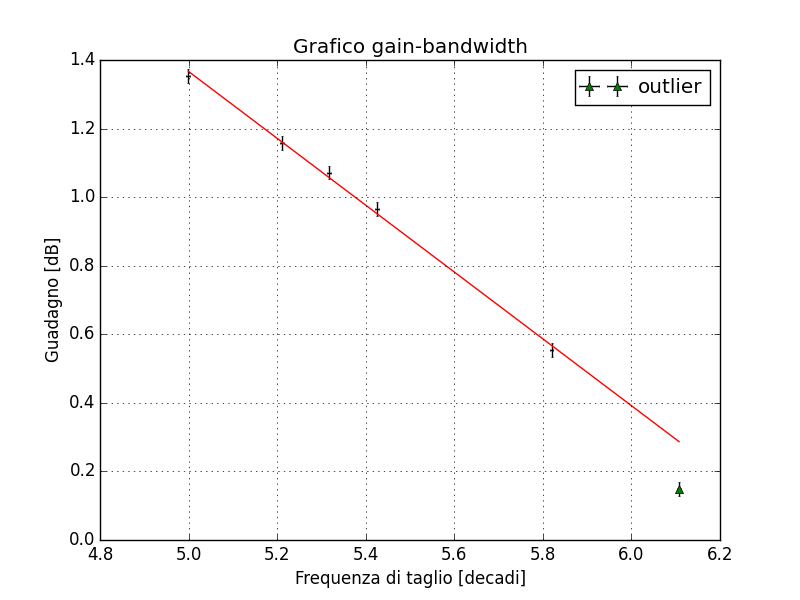
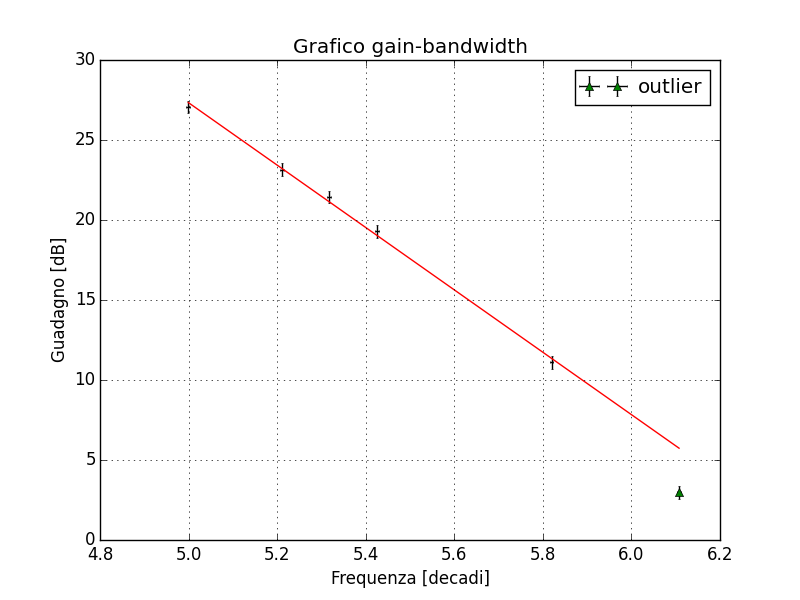
dfgh

diff --git a/Esercitazione7/relazione/Relazione7.tex b/Esercitazione7/relazione/Relazione7.tex
@@ -47,21 +47,122 @@
 \section{Discriminatore}
 Si è montato il circuito in \figurename{~\ref{circuito_discriminatore}} e se ne è studiata la risposta a segnali sinusoidali di frequenza e intensità variabili. In \figurename{~\ref{fig:discriminator}} è mostrato il comportamento ad una frequenza di $\sim \unit{1}{k\hertz}$ ed una tensione di ingresso di $\sim\unit{4}{\volt}$, è visibile l'onda sinusoidale in ingresso e l'onda quadra generata in uscita dall' op-amp. Poiché l'op-amp è usato in modalità invertente il comportamento è paragonabile ad un circuito logico NOT.
 
+\begin{figure}[H]
+	\begin{minipage}{0.49\textwidth}
+		\centering
+		\includegraphics[width=0.7\textwidth]{../circuiti/discriminatore.jpg}
+		\caption{Schema del circuito discriminatore}
+		\label{circuito_discriminatore}
+	\end{minipage}
+	\begin{minipage}{0.49\textwidth}
+		\centering
+		\includegraphics[width=0.9\textwidth]{../oscilloscopio/discriminator.jpg}
+		\caption{Risposta del circuito discriminatore}
+		\label{fig:discriminator}
+	\end{minipage}
+\end{figure}
+
 \subsection{Misura della tensione di offset}
-Si è proceduto a studiare in maggior dettaglio il punto di zero-crossing e a misurare la tensione di offset $V_{OS}$, ovvero la tensione del segnale sinusoidale $V_{IN}$ nell'istante in cui il segnale in output attraversa lo zero ($V_{OUT}=0$). In figura \figurename{~\ref{fig:vos}} è visibile il punto di zero crossing. La misura ha restituito il valore di $V_{OS} = \unit{150 \pm 5}{\milli\volt}$
+Si è proceduto a studiare in maggior dettaglio il punto di zero-crossing e a misurare la tensione di offset $V_{OS}$, ovvero la tensione del segnale sinusoidale $V_{IN}$ nell'istante in cui il segnale in output attraversa lo zero ($V_{OUT}=0$). In \figurename{~\ref{fig:vos}} è visibile il punto di zero crossing e il risultato della misura: $V_{OS} = \unit{150 \pm 5}{\milli\volt}$.
 
-\subsection{Conservazione GBW}
-Per elevate frequenze è atteso, per la conservazione del prodotto guadagno-banda che i guadagno dell'op-amp diminuisca. Per piccoli segnali in ingresso e alte frequenze è atteso che il segnale in output non arrivi a saturazione e sia visibile quindi come un onda sinusoidale.
-In \figurename{~\ref{fig:GMW}} è visibile la risposta del circuito ad un segnale di $\sim\unit{100}{k\hertz}$ e un'intensità $V_{IN}= \unit{156 \pm 5}{\milli\volt}$ e come atteso il segnale è sinusoidale.
-Si è misurata la risposta a varie frequenze a parità di tensione di input, i dati raccolti sono riportati in appendice in \tablename{~\ref{tab:GBW}}. Si è fittata la conservazione della prodotto banda guadagno, i grafici e i risultati del fit sono riportati di seguito:
+\begin{figure}[H]
+	\centering
+	\includegraphics[width=0.45\textwidth]{../oscilloscopio/Vos.jpg}
+	\caption{Zoom sul punto di zero-crossing e misura di $V_{OS}$}
+	\label{fig:vos}
+\end{figure}
 
+\subsection{Conservazione prodotto GBW}
+Per elevate frequenze è atteso, per la conservazione del prodotto guadagno-banda che il guadagno dell'op-amp diminuisca. Per piccoli segnali in ingresso e alte frequenze è possibile quindi che il segnale in output non arrivi a saturazione e sia visibile come un onda sinusoidale.
+
+In \figurename{~\ref{fig:GBW}} è visibile la risposta del circuito ad un segnale di $\sim\unit{100}{k\hertz}$ e un'intensità $V_{IN}= \unit{156 \pm 5}{\milli\volt}$ e come atteso il segnale è sinusoidale.
+
+Si è misurata la risposta a varie frequenze a parità di tensione di input (sempre rimanendo in remime lineare), i dati raccolti sono riportati in appendice in \tablename{~\ref{tab:GBW}}. Si è fittata la conservazione del prodotto banda guadagno $Af_h$, i grafici e i risultati del fit sono riportati di seguito (a e b sono rispettivamente coefficiente angolare e intercetta):
+
+\begin{figure}[H]
+	\begin{minipage}{0.28\textwidth}
+		\centering
+		\begin{tabular}{l}
+			$a = \unit{-19.5 \pm 0.7}{\deci\bel / decade}$ \\
+			$b = \unit{125 \pm 4}{\deci \bel}$ \\
+			$\chi^2 / ndof = 1.9/3$\\
+			$corr(a,b) = -0.9987$\\
+			$Af_h = \unit{2.57+/-0.16}{\mega\hertz}$
+		\end{tabular}
+	\end{minipage}
+	\begin{minipage}{0.75\textwidth}
+		\centering
+		\includegraphics[width=0.95\textwidth]{../grafici/fit_gain_bandwidth.pdf}
+		\caption{Dati e fit della conservazione del GBW}
+		\label{}
+	\end{minipage}
+\end{figure}
+
+\begin{figure}[H]
+	\begin{minipage}{0.49\textwidth}
+	\centering
+	\includegraphics[width=0.85\textwidth]{../oscilloscopio/discriminatore_GBW.jpg}
+	\caption{Regime di linearità (alte frequenze e piccolo segnale)}
+	\label{fig:GBW}
+	\end{minipage}
+	\begin{minipage}{0.49\textwidth}
+	\centering
+	\includegraphics[width=0.85\textwidth]{../oscilloscopio/discriminator_slewrate.jpg}
+	\caption{Deformazione dell'onda quadra dovuta allo slew-rate (medie frequenze, grande segnale)}
+	\label{fig:slewrate_razzista}
+	\end{minipage}
+\end{figure}
 
 \subsection{Slew rate}
-Per frequenze medio/alte e grandi segnali lo slew-rate produce una notevole distorsione dell'onda quadra limitanto la velocità di salita/discesa del segnale. Glie effetti dello slew-rate sulla risposta del circuito sono chiari in \figurename{~\ref{fig:slewrate_razzista}}
-
+Per frequenze medio/alte e grandi segnali lo slew-rate produce una notevole distorsione dell'onda quadra limitanto la velocità di salita/discesa del segnale. Gli effetti dello slew-rate sulla risposta del circuito sono chiari in \figurename{~\ref{fig:slewrate_razzista}}. Si è misurata la velocità di discesa del segnale, il valore trovato è stato $\unit{13.4 \pm 0.4}{\volt /\micro\second}$, compatibile con il valore di $\unit{13}{\volt / \micro\second}$ riportato nel datasheet.
 
 \section{Amplificatore di carica}
 
+Si è montato il circuito in \figurename{~\ref{circuio_ampli}} con i seguenti valori dei componenti:
+
+\begin{figure}[H]
+	\begin{minipage}{0.3\textwidth}
+		\centering
+		\begin{tabular}{l}
+			$C_1 = \unit{21.0 \pm 0.9}{\nano\farad}$  \\ 
+			$C_T = \unit{0.99 \pm 0.05}{\nano\farad}$ \\
+			$C_F = \unit{1.00 \pm 0.05}{\nano\farad}$ \\
+			$R_1 = \unit{99.1 \pm 0.9}{k\ohm}$  \\
+			$R_2 = \unit{98.8 \pm 0.9}{\ohm}$
+		\end{tabular}
+	\end{minipage}
+	\begin{minipage}{0.7\textwidth}
+		\centering
+		\includegraphics[width=\textwidth]{../circuiti/charge_amplifier.jpg}
+		\caption{Schema del circuito amplificatore di carica}
+		\label{circuio_ampli}
+	\end{minipage}
+\end{figure}
+
+Si è misurata la durata del segnale in uscita al variare dell'intensità del segnale in ingresso, i dati raccolti sono riportati in \tablename{~\ref{tab:V_t}}.
+Dalla teoria sappiamo che $t = \tau \cdot ln(V_{IN}/V_0)$, dove $V_0$ è la tensione di soglia fissata nel discriminatore e $\tau = R_1 \cdot C_F$.
+
+Si sono fittate le misure eseguite, i grafici e i risultati del fit sono di seguito riportanti.
+
+\begin{figure}[H]
+	\begin{minipage}{0.28\textwidth}
+		\centering
+		\begin{tabular}{l}
+			$\tau = \unit{99.7 \pm 0.6}{\micro\second}$ \\
+			$V_0 = \unit{272 \pm 5}{\milli \volt}$ \\
+			$\chi^2 / ndof = 7.8/11$\\
+			$corr(\tau,V_0) = -0.956$\\
+		\end{tabular}
+	\end{minipage}
+	\begin{minipage}{0.75\textwidth}
+		\centering
+		\includegraphics[width=\textwidth]{../grafici/fit_V_t.pdf}
+		\caption{Dati e fit sul circuito amplificatore di carica}
+		\label{}
+	\end{minipage}
+\end{figure}
+
+I risultati trovati sono in ottimo accordo con quelli attesi, cioè $\tau^{exp} = \unit{98 \pm 5}{\micro\second}$ e $V_0 = \unit{271 \pm 2}{\milli\volt}.
 
 \section{Trigger di Schmitt}
 
@@ -71,43 +172,24 @@ Per frequenze medio/alte e grandi segnali lo slew-rate produce una notevole dist
 \section{Appendice: Dati acquisiti}
 Si riportano qui le tabelle dei dati usati per i fit e i grafici.
 
-%\centering
-%\begin{figure}[h!]
-%	\begin{minipage}[t]{0.33\textwidth}
-%		\resizebox{1\textwidth}{!}{
-%		\input{../tabelle/tab_inv_amp_gain.txt}}
-%		\captionof{table}{Guadagnio amplificatore invertente}
-%		\label{tab:inv_amp_gain}
-%	\end{minipage}
-%	\begin{minipage}[t]{0.33\textwidth}
-%		\resizebox{1\textwidth}{!}{
-%		\input{../tabelle/tab_inv_amp_f_domain.txt}}
-%		\captionof{table}{Risposta in frequenza amplificatore invertente}
-%		\label{tab:inv_amp_f_domain}
-%	\end{minipage}
-%	\begin{minipage}[t]{0.33\textwidth}
-%		\resizebox{1\textwidth}{!}{
-%			\input{../tabelle/tab_gain_bandwidth.txt}}
-%		\captionof{table}{Banda/Guadagno}
-%		\label{tab:gain_bandwidth}
-%	\end{minipage}
-%\end{figure}
+\centering
+\begin{figure}[h!]
+	\begin{minipage}[t]{0.49\textwidth}
+		\centering
+		\resizebox{0.7\textwidth}{!}{
+		\input{../tabelle/tab_gain_bandwidth.txt}}
+		\captionof{table}{Conservazione GBW}
+		\label{tab:GBW}
+	\end{minipage}
+	\begin{minipage}[t]{0.5\textwidth}
+		\centering
+		\resizebox{0.7\textwidth}{!}{
+		\input{../tabelle/tab_V_t.txt}}
+		\captionof{table}{Tensione input vs TOT}
+		\label{tab:V_t}
+	\end{minipage}
+\end{figure}
 
-%\begin{figure}[h!]
-%	\centering
-%	\resizebox{0.7\textwidth}{!}{
-%	\input{../tabelle/tab_low_pass.txt}}
-%	\captionof{table}{Dati relativi al circuito integratore}
-%	\label{tab:lowpass}
-%\end{figure}
-
-%\begin{figure}[H]
-%	\centering
-%	\resizebox{0.7\textwidth}{!}{
-%	\input{../tabelle/tab_high_pass.txt}}
-%	\captionof{table}{Dati relativi al circuito derivatore}
-%	\label{tab:highpass}
-%\end{figure}
 
 
 

diff --git a/BobLightyear.py b/BobLightyear.py
@@ -19,10 +19,10 @@ from scipy.stats import chisqprob
 #from scipy.stats import distributions
 
 # lab flavour
-
-from pylab import loadtxt, transpose, matrix, zeros, figure, title, xlabel, ylabel, xscale, yscale, grid, errorbar, savefig, plot, clf, logspace, linspace, legend, rc
-from uncertainties import unumpy
-from lab import mme, fit_generic_xyerr2, xep, xe
+from pylab import *
+#from pylab import loadtxt, transpose, matrix, zeros, figure, title, xlabel, ylabel, xscale, yscale, grid, errorbar, savefig, plot, clf, logspace, linspace, legend, rc
+from uncertainties import unumpy, ufloat
+#from lab import mme, fit_generic_xyerr2, xep, xe
 
 __all__ = [ # things imported when you do "from lab import *"
     'plot_fit',
@@ -30,7 +30,9 @@ __all__ = [ # things imported when you do "from lab import *"
     'pretty_print_chi2',
     'latex_table',
     'fit',
-    'fast_plot'
+    'fast_plot',
+    'umme',
+    'mme'
 ]
 
 __version__ = 'Bob.0'
@@ -629,8 +631,9 @@ _util_mm_esr_data = dict(
             div=[1e-3]*2+[ (d*10**s) for s in range(-2, 1) for d in [1, 2, 5] ]
         ),
         time=dict(
-            scales=[5e-09] + [ (10*d*10**s) for s in range(-9, 2) for d in [1, 2.5, 5] ]
-            
+            scales=[5e-09] + [ (10*d*10**s) for s in range(-9, 2) for d in [1, 2.5, 5] ],
+            perc=[0]*37,
+            div=[1e-09] + [ (1*d*10**s) for s in range(-9, 2) for d in [1, 2.5, 5] ]  
         ),
         freq=dict(
             scales=[1e9],
@@ -1123,7 +1126,7 @@ def _load_data(directory,file_):
     # load the data matrix from the data file 
     
     data = loadtxt(directory+"data/"+file_+".txt", unpack = True)    
-    if type(data[0]) is float64:    # check if the first column is a column 
+    if type(data[0]) is np.float64:    # check if the first column is a column 
         data=array(transpose(matrix(data)))
 
     return data
@@ -1444,4 +1447,4 @@ def fast_plot(directory, file_, units, XYfun=_XYfunction, title_="",
     
 def umme(value, unit="volt_ar", instrument="osc"):
     #Shortcut to generate an ufloat type with the error given by the mme function.
-    return uncertainties.ufloat(value,mme(value,unit,instrument))
+    return ufloat(value,mme(value,unit,instrument))

diff --git a/Esercitazione7/Esercitazione7.py b/Esercitazione7/Esercitazione7.py
@@ -14,7 +14,7 @@ else:
     raise Error("unknown user, please specify it and the path in the file Esercitazione*.py")
 sys.path = sys.path + [path]
 
-from BuzzLightyear import *
+from BobLightyear import *
 
 dir= path + "Esercitazione7/"
 ###########################################################################
@@ -48,20 +48,19 @@ tab=["$V_{OUT}$ [$V$]","Freq. di taglio [Hz]"]
 ##
 
 file="V_t"
-
 def f(x, a, b):
-    return a*np.log10(b*x)
+    return a*np.log10(x*b)
 
 p0=[1,1]
 
 def XYfun(a):
     return a[0], a[1]
 
-unit=[("volt_ar","osc"),("freq","osc")]
+unit=[("volt_ar_nc","osc"),("time","osc")]
 
 titolo="Grafico gain-bandwidth"
-Xlab="Frequenza di taglio [decadi]"
-Ylab="Guadagno [dB]"
+Xlab="Tensione di soglia"
+Ylab="Tempo"
 
 tab=["$V_{OUT}$ [$V$]","Freq. di taglio [Hz]"]
 

diff --git a/Esercitazione6/relazione/Relazione6.tex b/Esercitazione6/relazione/Relazione6.tex
@@ -35,7 +35,7 @@
 \def\code#1{\texttt{#1}}
 
 
-\title{Esercitazione 6: Amplificatore operazionale \\ \Large \emph{Circuiti lineari}}
+\title{Esercitazione 6: Amplificatore operazionale, Circuiti lineari}
 
 \author{Gruppo BE \\ Alessandro Candido, Roberto Ribatti}
 \date{\today}
